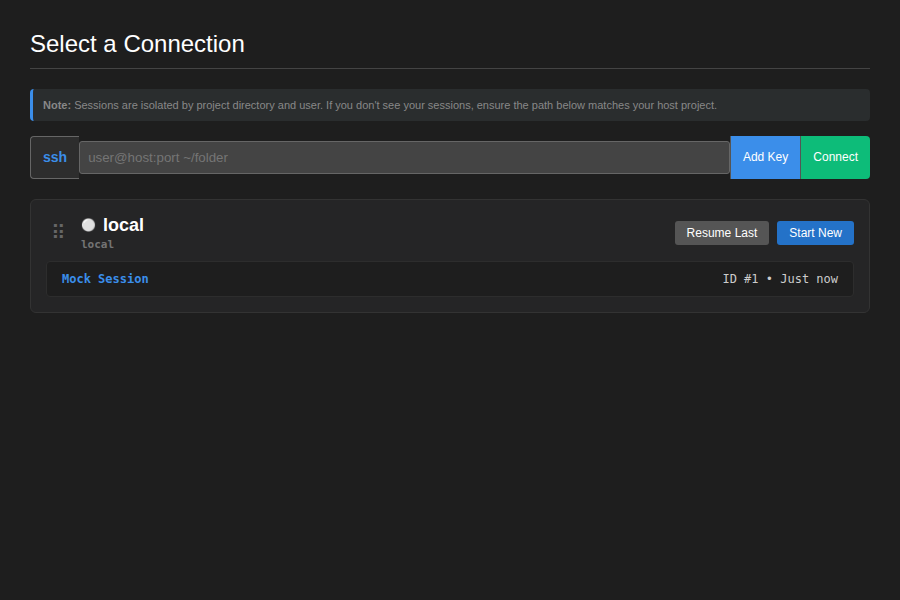
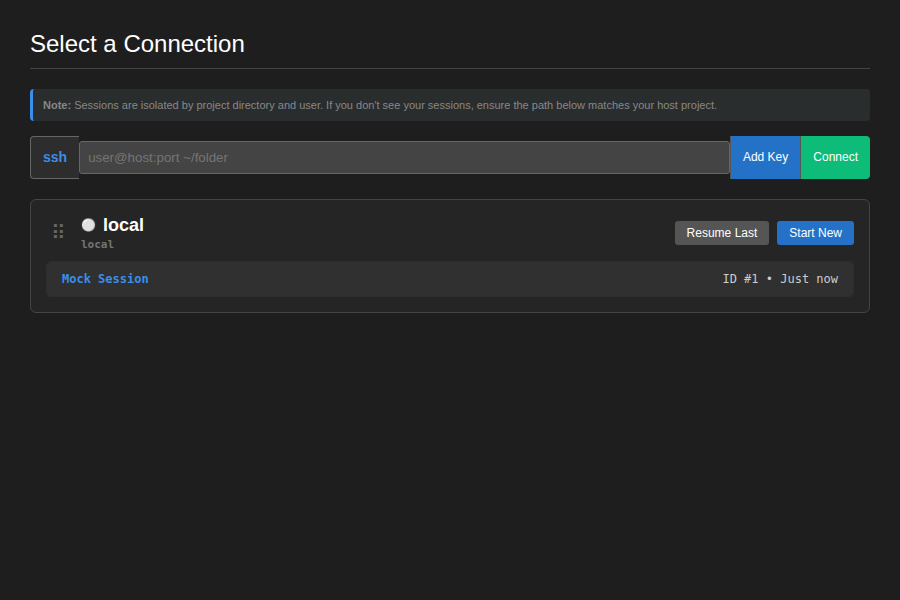
QA: Update visual proof and testing script

Changed region(s): [[0.8089, 0.21, 0.9022, 0.3]]

diff --git a/tests/proof/take_proof_333.py b/tests/proof/take_proof_333.py
@@ -17,9 +17,9 @@ def test_take_proof_333(page, server):
     page.screenshot(path="docs/qa-images/epic_333_quick_connect.png")
 
     # Expand the local session
-    expand_btn = page.locator(".session-item.js-style-86c2b8").first
-    if expand_btn.is_visible():
-        expand_btn.hover()
+    session_item = page.locator(".session-item").first
+    if session_item.is_visible():
+        session_item.hover()
         page.screenshot(path="docs/qa-images/epic_333_session_hover.png")
 
     # Take a screenshot of the full launcher
